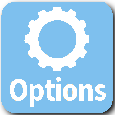
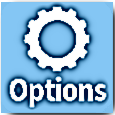
Fixed a small issue with the button's pixels(just in time fix)

diff --git a/desktop/src/com/mygdx/game/desktop/DesktopLauncher.java b/desktop/src/com/mygdx/game/desktop/DesktopLauncher.java
@@ -13,7 +13,7 @@ import com.mygdx.rainmaker.RainMaker;
  */
 public class DesktopLauncher {
 	
-	private static boolean rebuildAtlas = false;
+	private static boolean rebuildAtlas = true;
 	private static boolean drawDebugOutline = false;
 	
 	/*
